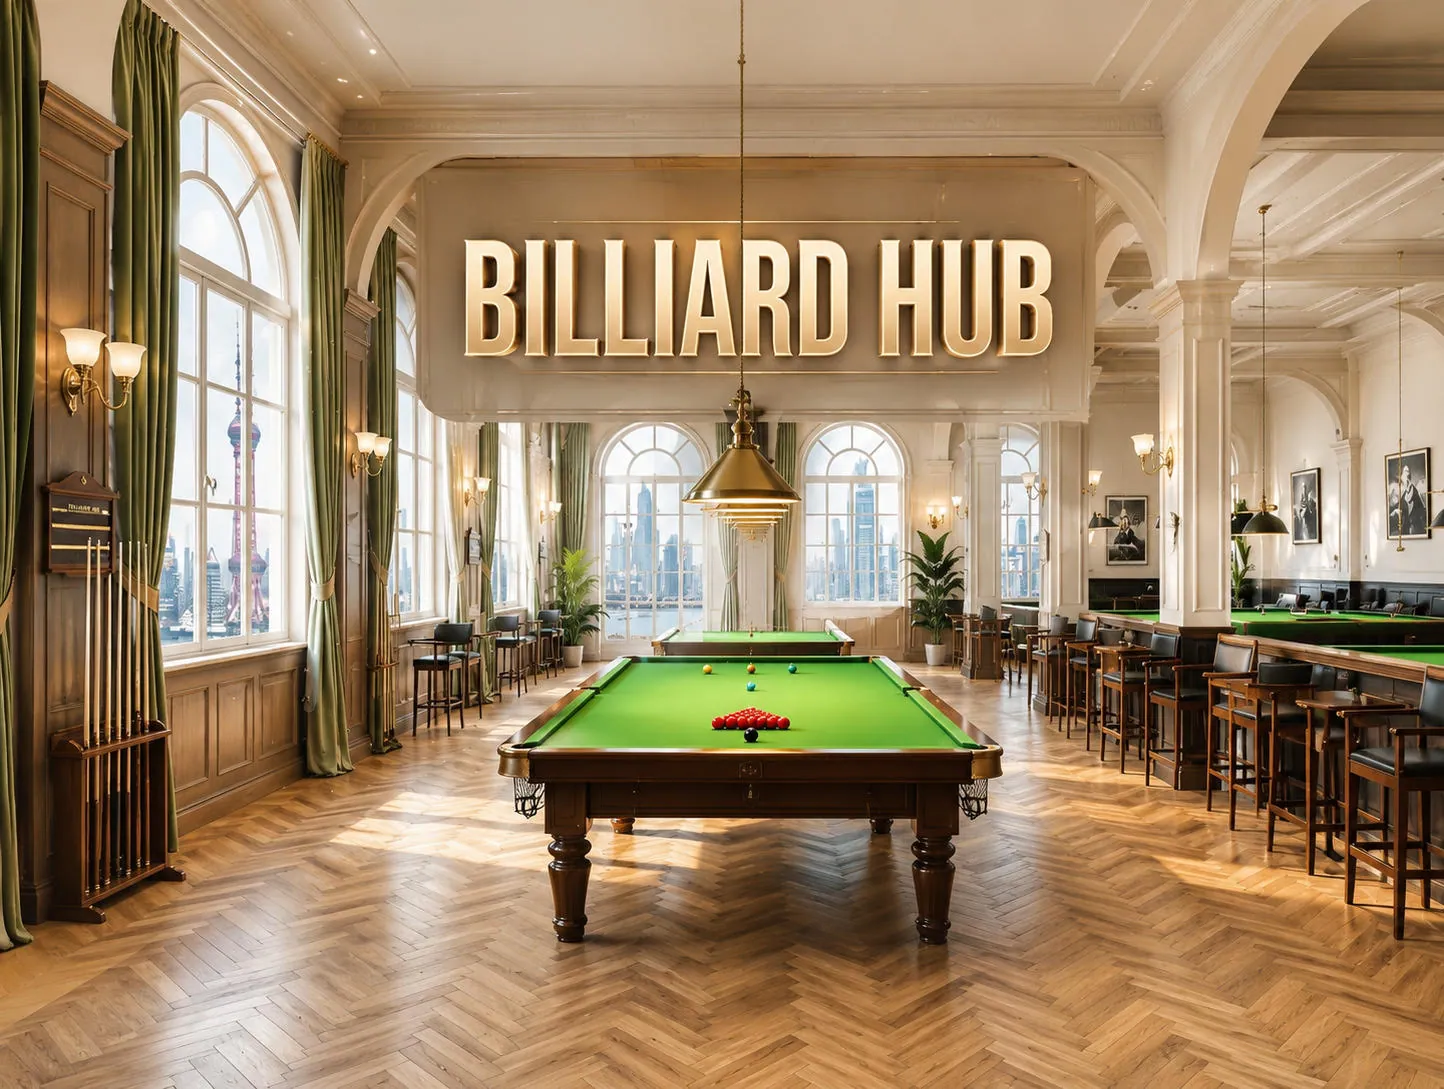
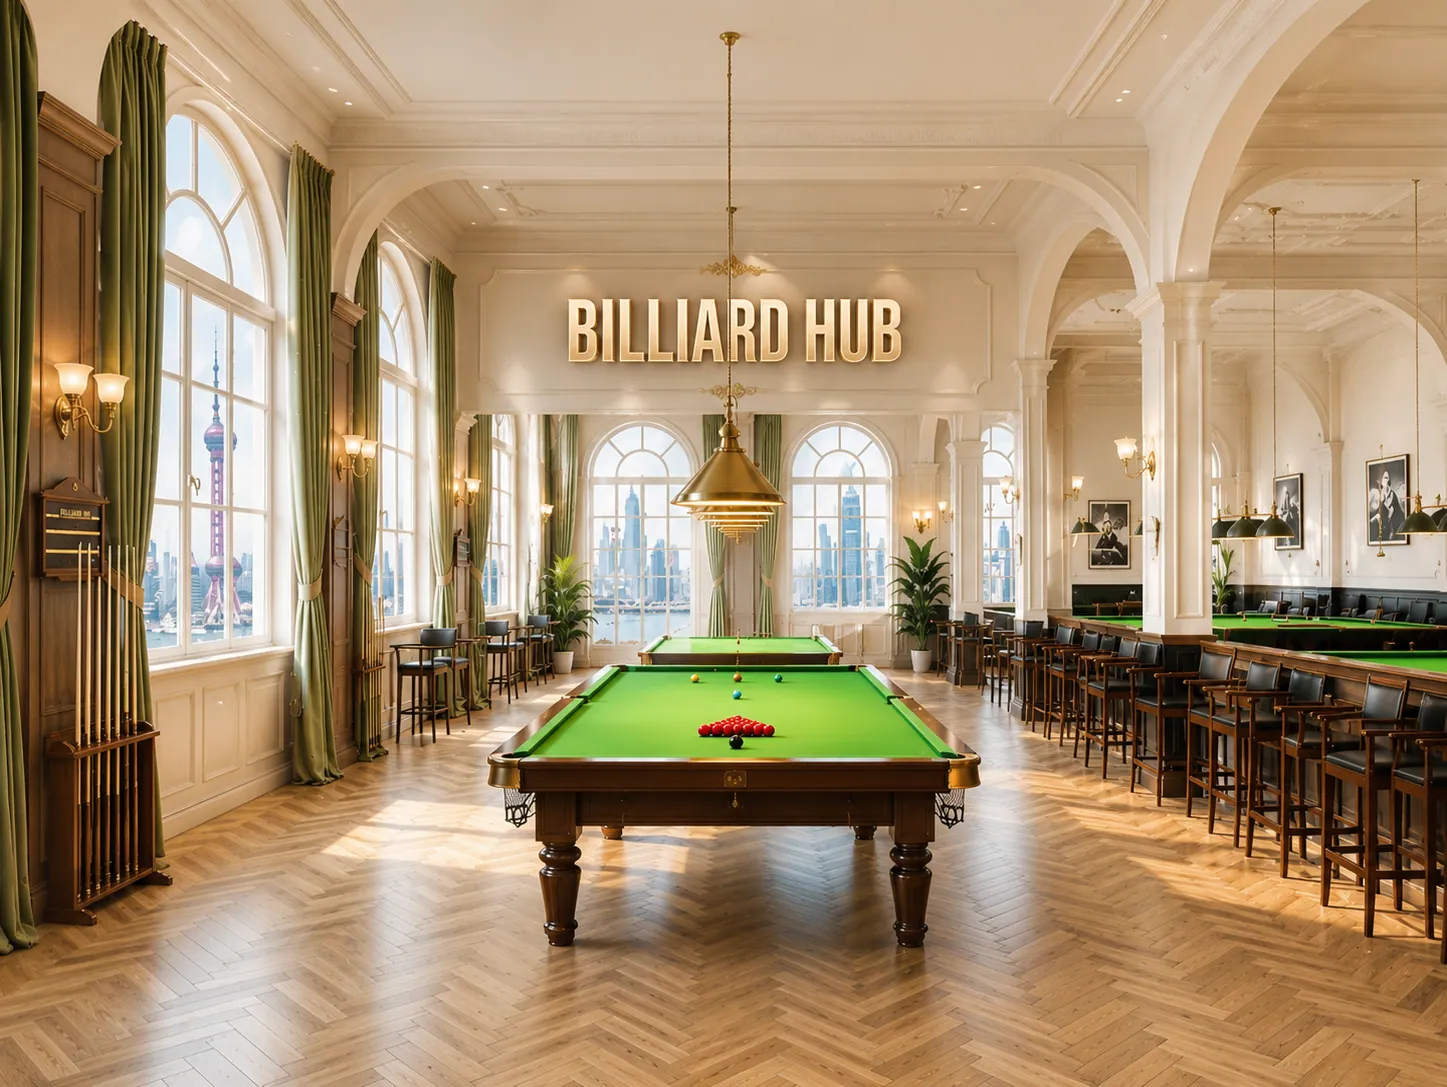
fix(home): اسلاید دومِ هیرو — تبدیل به WebP و شکستنِ کش
تصویرِ جدید بهصورتِ 2.png گذاشته شده بود ولی کد به 2.webp اشاره
میکند، پس آن اسلاید اصلاً لود نمیشد.

  • 2.png (۲۱۱۷KB) → 2.webp (۱۵۹KB) — ۹۲٪ کمتر
  • ?v=2 اضافه شد: تصاویر یک هفته کش میشوند و چون نامِ فایل عوض
    نشده، بدونِ این پارامتر بازدیدکنندههای قبلی تا هفتهی بعد نسخهی
    قدیمی را میدیدند

تأیید: هر چهار اسلاید ۲۰۰، صفرْ خطای سرور.

diff --git a/apps/web/app/HomeClient.tsx b/apps/web/app/HomeClient.tsx
@@ -148,7 +148,10 @@ const HERO_SLIDES = [
   { bg: '/images/hero/1.webp',   accent: GRN,  label: 'باشگاهها' },
   /* اسلاید دوم عوض شد و پسوندش هم از png به jpg تغییر کرد؛ مسیرِ قبلی
      دیگر وجود نداشت و ۴۰۴ میداد. */
-  { bg: '/images/hero/2.webp',   accent: GOLD, label: 'تجهیزات'   },
+  /* ?v=2 — تصویر با همان نام عوض شد. چون تصاویر یک هفته کش میشوند،
+     بدونِ این پارامتر مرورگرِ بازدیدکنندههای قبلی تا هفتهی بعد نسخهی
+     قدیمی را نشان میداد. هر بار که این فایل عوض شد، عدد را جلو ببرید. */
+  { bg: '/images/hero/2.webp?v=2', accent: GOLD, label: 'تجهیزات'   },
   { bg: '/images/hero/3.webp',   accent: BLU,  label: 'مربیان'    },
   /* ?v=2 — فایل همنام عوض شده؛ بدونِ ورژن، کش CDN/مرورگر عکسِ قبلی را میداد */
   { bg: '/images/hero/4.webp', accent: BRN, label: 'رقابت' },
